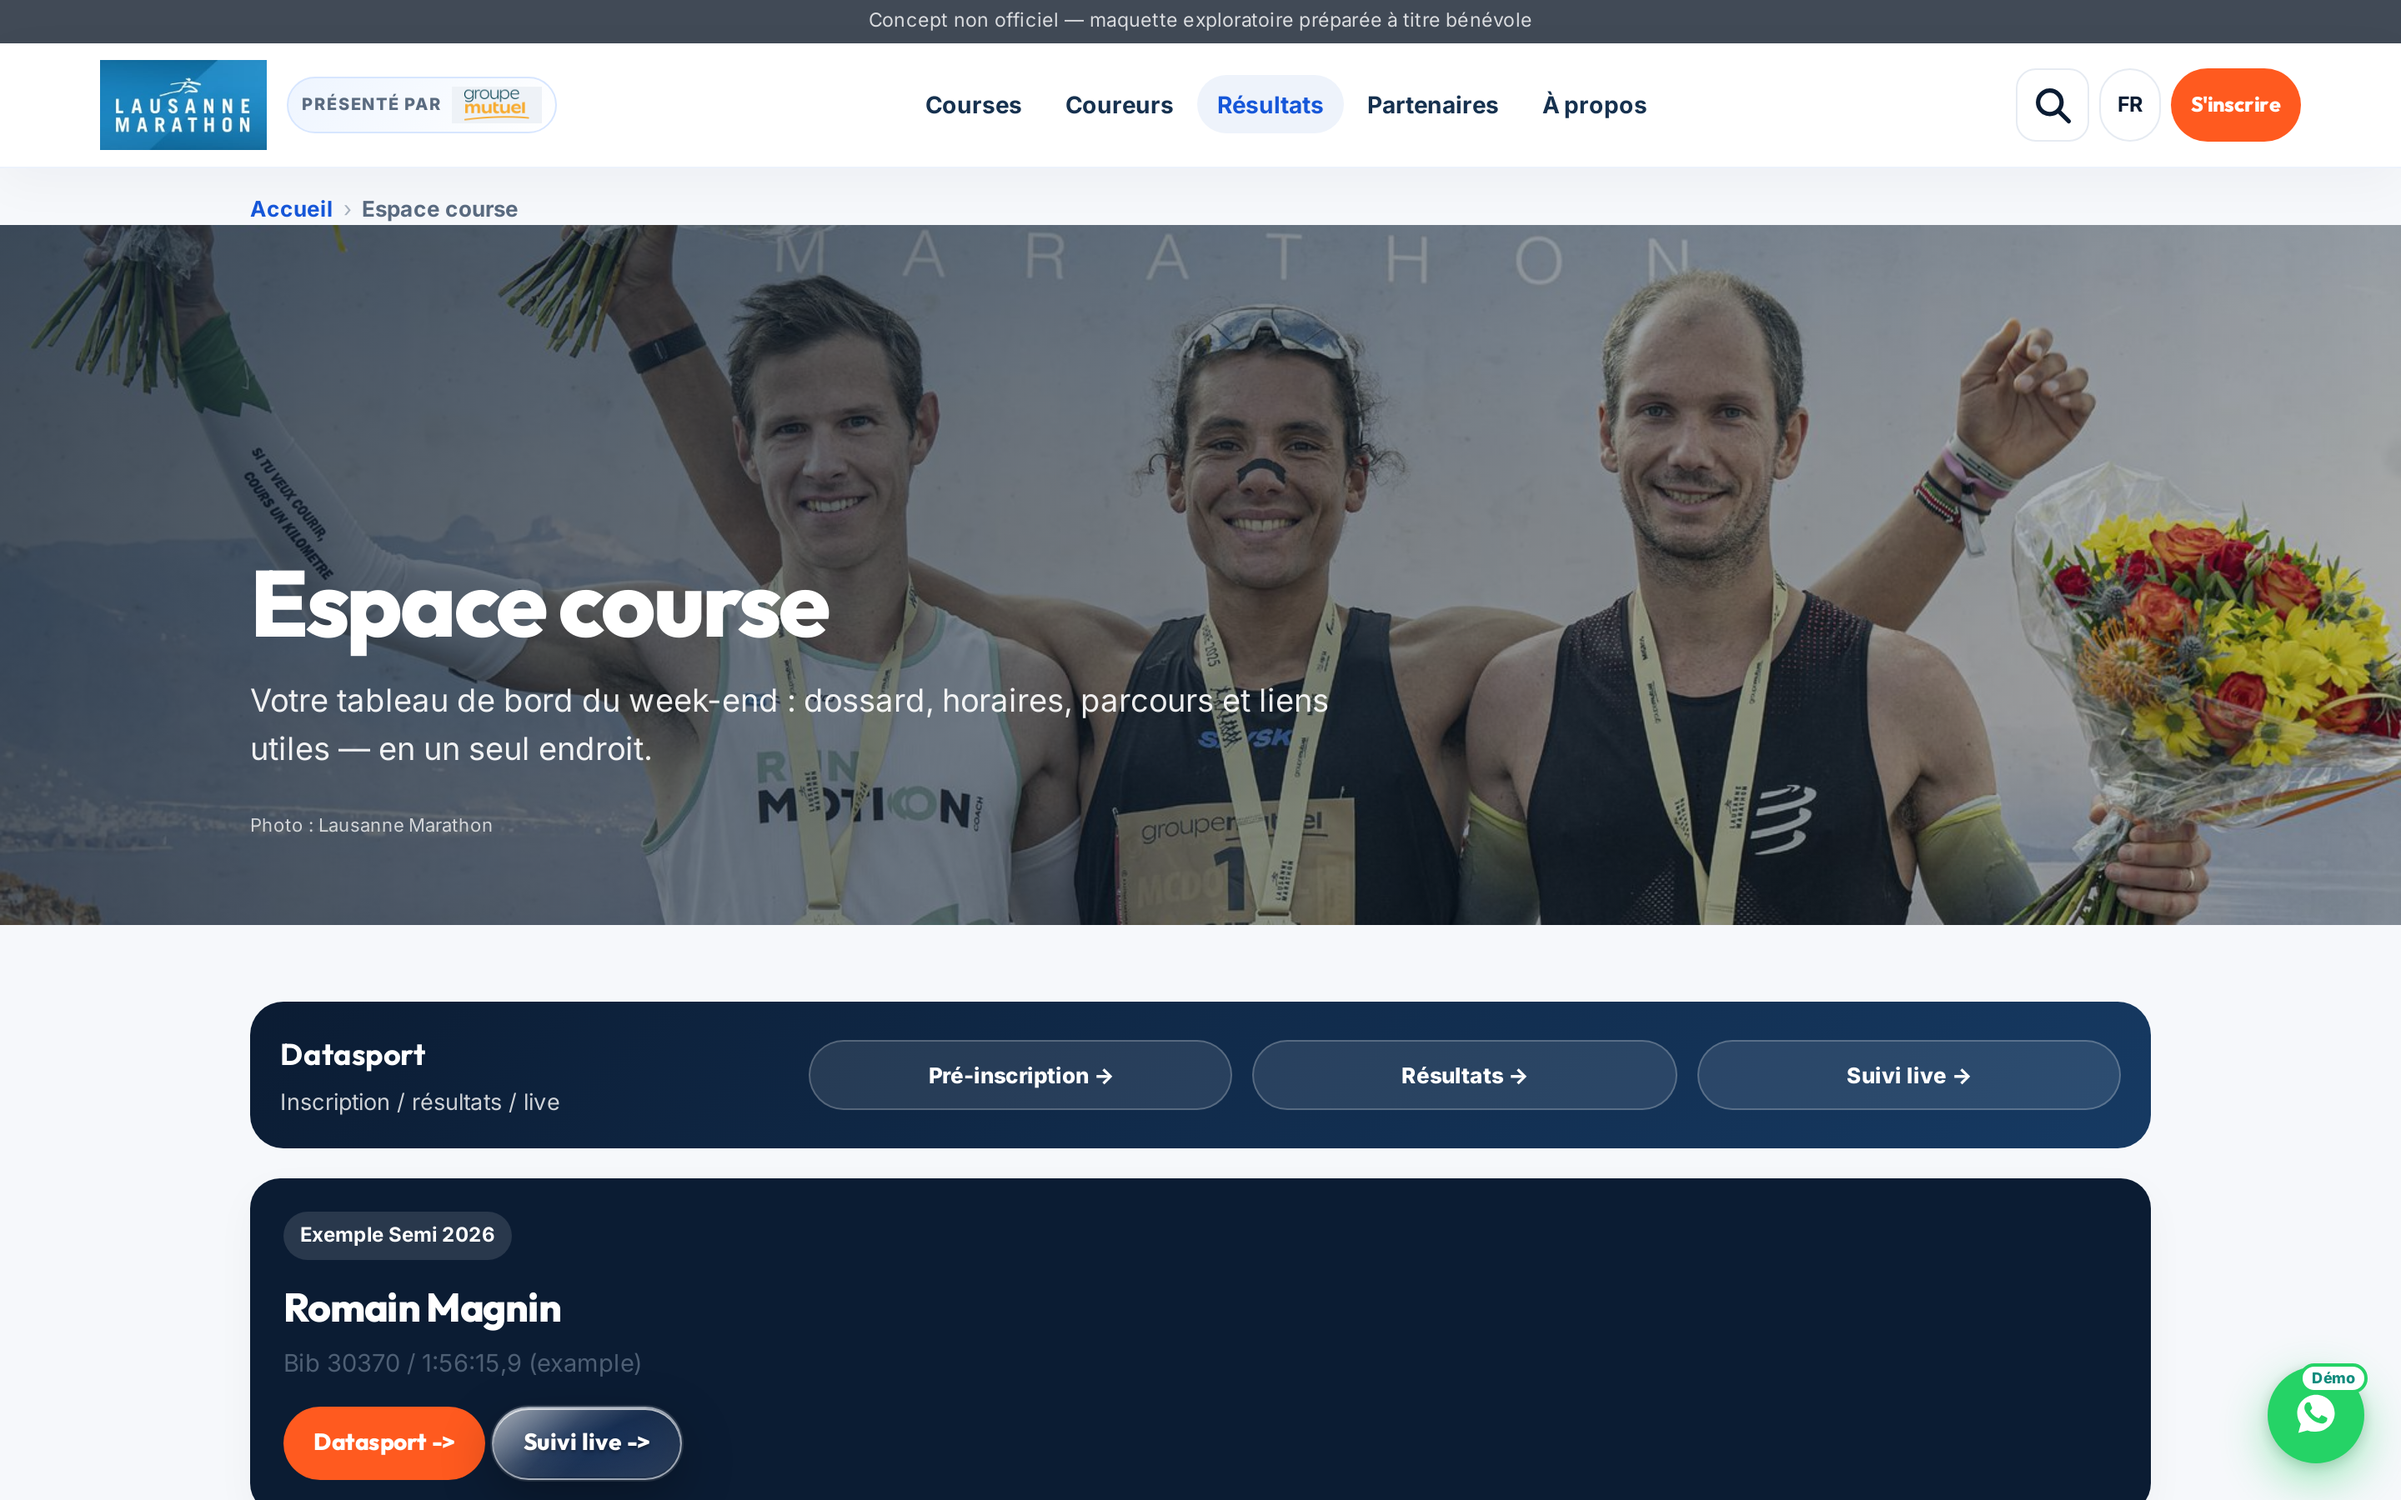
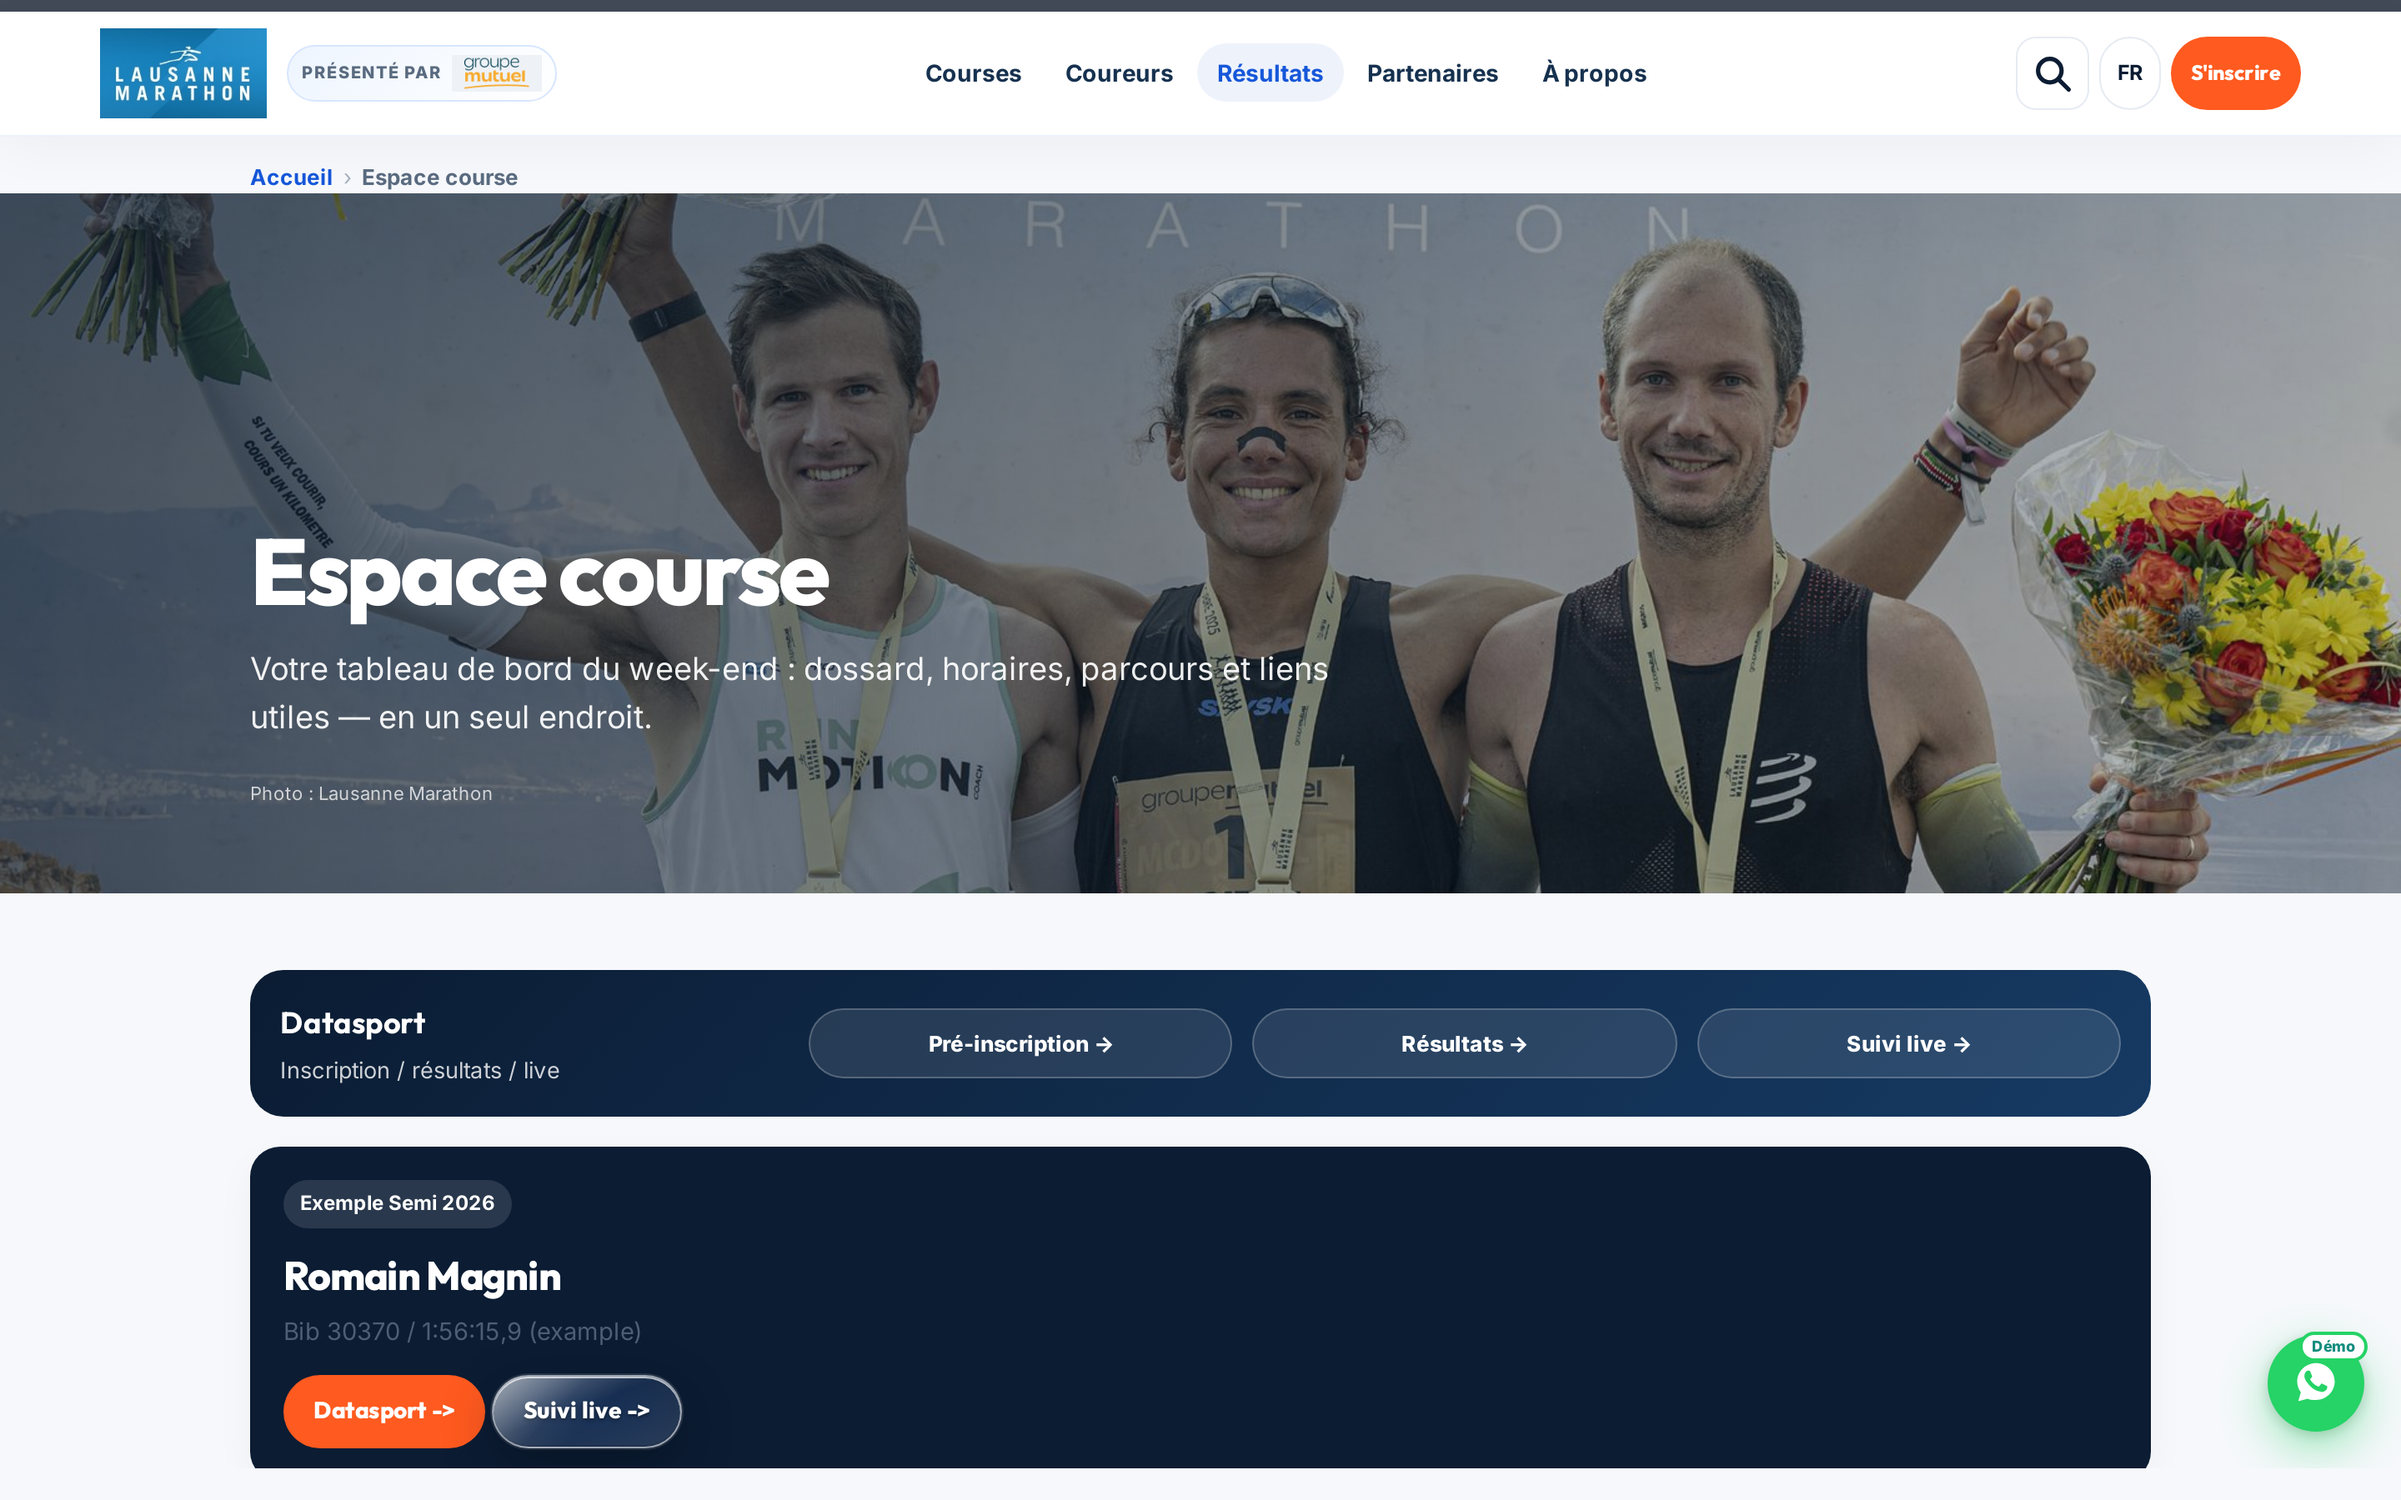
fix: make scroll-reveal progressive and reshoot screenshots
Reveal hides only under html.js; cards stay visible without JS.
IO uses threshold 0 + rootMargin, 1.5s safety reveal, reduced-motion
and print fallbacks. Section headings no longer opacity-0. Reshot
devenir (viewport/full/packages) and polish-* with forced reveal.

Changed region(s): [[0.0, 0.0, 1.0, 1.0], [0.9375, 0.8711, 1.0, 0.9956], [0.25, 0.5289, 0.2812, 0.56]]

diff --git a/assets/js/app.js b/assets/js/app.js
@@ -78,48 +78,74 @@
   })();
 })();
 
-/* partner pitch + reveal */
+/* partner pitch + reveal — robust: content visible without JS */
 (function(){
+  var root = document.documentElement;
+  root.classList.add('js');
+
+  function prefersReduced(){
+    try { return window.matchMedia('(prefers-reduced-motion: reduce)').matches; }
+    catch(e){ return false; }
+  }
+
+  function revealEl(el){
+    if(!el) return;
+    el.classList.add('in','revealed');
+    if(el.classList.contains('kpi')) animateCount(el);
+  }
+
+  function revealAll(){
+    document.querySelectorAll('.reveal').forEach(revealEl);
+  }
+
   function animateCount(el){
-    const target = parseInt(el.getAttribute('data-count')||'0',10);
+    var target = parseInt(el.getAttribute('data-count')||'0',10);
     if(!target || el.dataset.done) return;
     el.dataset.done='1';
-    const num = el.querySelector('.kpi-num');
+    var num = el.querySelector('.kpi-num');
     if(!num) return;
-    const final = num.textContent;
-    const prefers = window.matchMedia('(prefers-reduced-motion: reduce)').matches;
-    if(prefers){ return; }
-    const start = performance.now();
-    const dur = 900;
-    const step = (now)=>{
-      const p = Math.min(1,(now-start)/dur);
-      const eased = 1-Math.pow(1-p,3);
-      const v = Math.round(target*eased);
-      num.textContent = v.toLocaleString(document.documentElement.lang||'fr-CH');
+    var final = num.textContent;
+    if(prefersReduced()){ return; }
+    var start = performance.now();
+    var dur = 900;
+    function step(now){
+      var p = Math.min(1,(now-start)/dur);
+      var eased = 1-Math.pow(1-p,3);
+      var v = Math.round(target*eased);
+      try { num.textContent = v.toLocaleString(root.lang||'fr-CH'); }
+      catch(e){ num.textContent = String(v); }
       if(p<1) requestAnimationFrame(step); else num.textContent = final;
-    };
+    }
     requestAnimationFrame(step);
   }
-  const io = ('IntersectionObserver' in window) ? new IntersectionObserver((entries)=>{
-    entries.forEach(e=>{
-      if(e.isIntersecting){
-        e.target.classList.add('in');
-        if(e.target.classList.contains('kpi')) animateCount(e.target);
-        io.unobserve(e.target);
-      }
-    });
-  },{threshold:0.2}) : null;
-  document.querySelectorAll('.partner-pitch section, .kpi, .card, .vis-item, .proc-step').forEach(el=>{
-    el.classList.add('reveal');
-    if(io) io.observe(el); else el.classList.add('in');
-  });
-  document.querySelectorAll('form[data-partner-demo]').forEach(form=>{
-    form.addEventListener('submit', (ev)=>{
+
+  var targets = document.querySelectorAll('.partner-pitch .kpi, .partner-pitch .card, .partner-pitch .vis-item, .partner-pitch .proc-step, .partner-pitch .devenir-banner, .reveal-on-scroll');
+  // Also allow explicit .reveal already in markup; don't blanket-hide every .card site-wide
+  targets.forEach(function(el){ el.classList.add('reveal'); });
+
+  if(prefersReduced() || !('IntersectionObserver' in window)){
+    revealAll();
+  } else {
+    var io = new IntersectionObserver(function(entries){
+      entries.forEach(function(e){
+        if(e.isIntersecting){
+          revealEl(e.target);
+          io.unobserve(e.target);
+        }
+      });
+    }, { threshold: 0, rootMargin: '0px 0px 12% 0px' });
+    document.querySelectorAll('.reveal').forEach(function(el){ io.observe(el); });
+    // Safety net: never leave content invisible (screenshots, slow IO, odd viewports)
+    setTimeout(revealAll, 1500);
+  }
+
+  document.querySelectorAll('form[data-partner-demo]').forEach(function(form){
+    form.addEventListener('submit', function(ev){
       ev.preventDefault();
-      const ok = form.querySelector('.form-ok');
-      if(ok){ ok.hidden=false; }
-      form.querySelectorAll('input,textarea,select,button[type=submit]').forEach(x=>{
-        if(x.type==='submit') x.disabled=true; 
+      var ok = form.querySelector('.form-ok');
+      if(ok) ok.hidden = false;
+      form.querySelectorAll('input,textarea,select,button[type=submit]').forEach(function(x){
+        if(x.type==='submit') x.disabled = true;
       });
     });
   });

diff --git a/assets/css/main.css b/assets/css/main.css
@@ -930,12 +930,19 @@ body.wa-open .wa-fab{display:none}
 .hero.compact{min-height:clamp(280px,42vw,420px)}
 .hero-inner h1{letter-spacing:-.03em; text-wrap:balance}
 .hero-inner .lead{text-wrap:pretty; max-width:54ch}
-.reveal{opacity:0; transform:translateY(14px); transition:opacity .55s var(--ease), transform .55s var(--ease)}
-.reveal.in{opacity:1; transform:none}
+/* Reveal: visible by default. Hidden only when JS marked html.js AND added .reveal */
+.reveal{opacity:1; transform:none}
+html.js .reveal{opacity:0; transform:translateY(14px); transition:opacity .55s var(--ease), transform .55s var(--ease)}
+html.js .reveal.in,
+html.js .reveal.revealed{opacity:1; transform:none}
 @media (prefers-reduced-motion: reduce){
-  .reveal{opacity:1; transform:none; transition:none}
+  html.js .reveal{opacity:1; transform:none; transition:none}
   .card:hover,.vis-item:hover,.kpi:hover,.proc-step:hover,.btn:hover{transform:none}
 }
+@media print{
+  html.js .reveal{opacity:1!important; transform:none!important; transition:none!important}
+}
+
 .bottom a{min-height:48px}
 .nav-desk a, .mega a{transition:color .15s var(--ease), background .15s var(--ease)}
 img[loading="lazy"]{background:#eef2f7}
